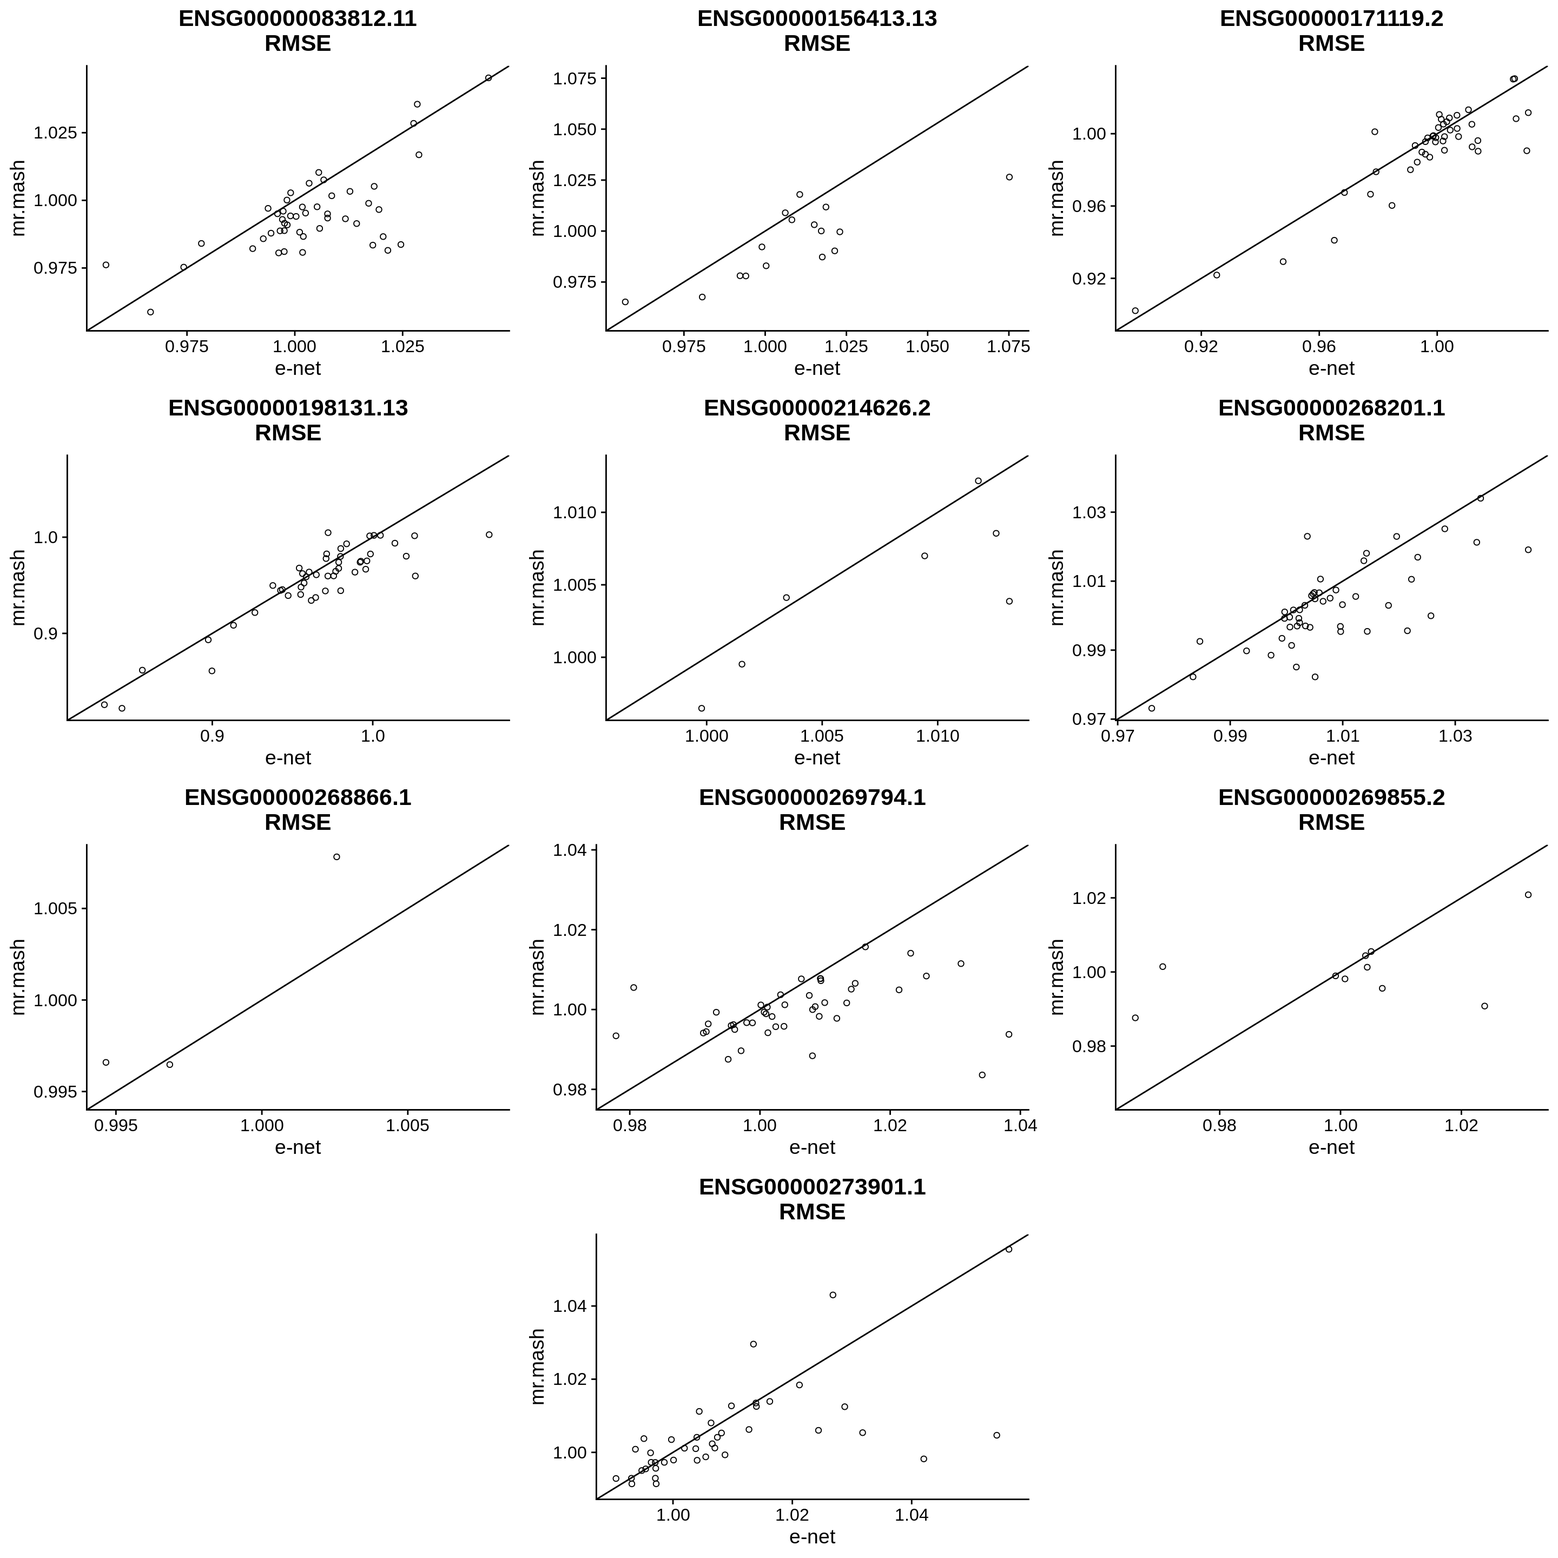
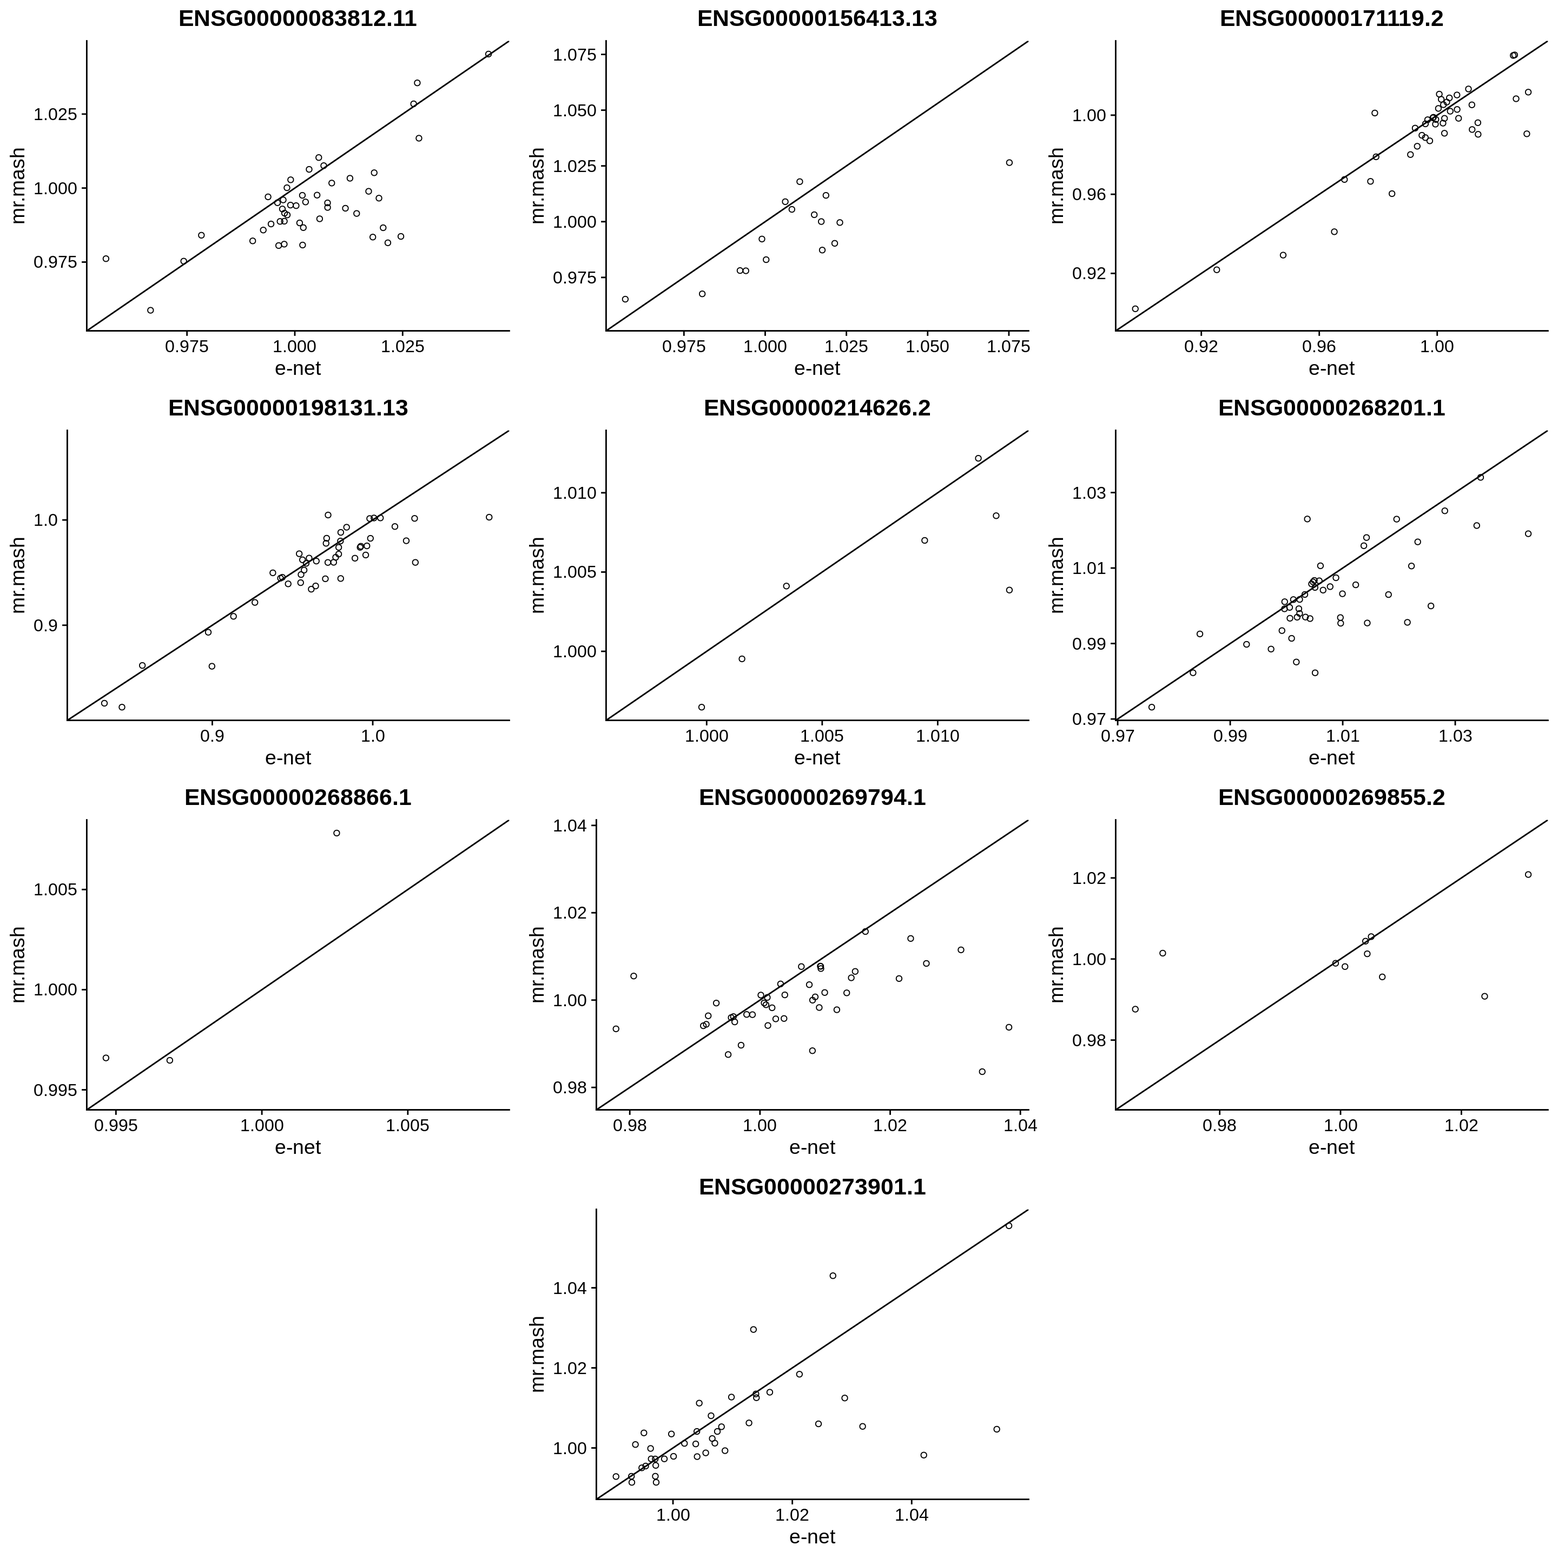
Build site.

diff --git a/docs/results_gtex_10genes.html b/docs/results_gtex_10genes.html
@@ -13,7 +13,7 @@
 
 <meta name="date" content="2021-11-12" />
 
-<title>mr.mash vs mtlasso vs UTMOST</title>
+<title>Analysis of 10 GTEx genes</title>
 
 <script src="site_libs/header-attrs-2.7/header-attrs.js"></script>
 <script src="site_libs/jquery-1.11.3/jquery.min.js"></script>
@@ -370,7 +370,7 @@ div.tocify {
 
 
 
-<h1 class="title toc-ignore">mr.mash vs mtlasso vs UTMOST</h1>
+<h1 class="title toc-ignore">Analysis of 10 GTEx genes</h1>
 <h4 class="author">Fabio Morgante</h4>
 <h4 class="date">November 12, 2021</h4>
 
@@ -488,16 +488,16 @@ This reproducible <a href="http://rmarkdown.rstudio.com">R Markdown</a> analysis
 <div class="panel panel-default">
 <div class="panel-heading">
 <p class="panel-title">
-<a data-toggle="collapse" data-parent="#workflowr-checks" href="#strongRepositoryversionstrongahrefhttpsgithubcomfmorgantemrmashtesttree164147e20ebdd9f707b57a6e9653e5eba04bfc26targetblank164147ea"> <span class="glyphicon glyphicon-ok text-success" aria-hidden="true"></span> <strong>Repository version:</strong> <a href="https://github.com/fmorgante/mr_mash_test/tree/164147e20ebdd9f707b57a6e9653e5eba04bfc26" target="_blank">164147e</a> </a>
+<a data-toggle="collapse" data-parent="#workflowr-checks" href="#strongRepositoryversionstrongahrefhttpsgithubcomfmorgantemrmashtesttree759c3a532d4e5562db92086e3c39810dbd32cd07targetblank759c3a5a"> <span class="glyphicon glyphicon-ok text-success" aria-hidden="true"></span> <strong>Repository version:</strong> <a href="https://github.com/fmorgante/mr_mash_test/tree/759c3a532d4e5562db92086e3c39810dbd32cd07" target="_blank">759c3a5</a> </a>
 </p>
 </div>
[2 lines of base64/hex data omitted]
 <div class="panel-body">
 <p>
 Great! You are using Git for version control. Tracking code development and connecting the code version to the results is critical for reproducibility.
 </p>
 <p>
-The results in this page were generated with repository version <a href="https://github.com/fmorgante/mr_mash_test/tree/164147e20ebdd9f707b57a6e9653e5eba04bfc26" target="_blank">164147e</a>. See the <em>Past versions</em> tab to see a history of the changes made to the R Markdown and HTML files.
+The results in this page were generated with repository version <a href="https://github.com/fmorgante/mr_mash_test/tree/759c3a532d4e5562db92086e3c39810dbd32cd07" target="_blank">759c3a5</a>. See the <em>Past versions</em> tab to see a history of the changes made to the R Markdown and HTML files.
 </p>
 <p>
 Note that you need to be careful to ensure that all relevant files for the analysis have been committed to Git prior to generating the results (you can use <code>wflow_publish</code> or <code>wflow_git_commit</code>). workflowr only checks the R Markdown file, but you know if there are other scripts or data files that it depends on. Below is the status of the Git repository when the results were generated:
@@ -2835,11 +2835,6 @@ Untracked files:
     Untracked:  code/predict_mrmash_by_fold_test_4threads.R
     Untracked:  code/predict_mrmash_by_fold_test_8threads.R
     Untracked:  dsc/mvreg_all_genes_prior_09_11_20_COPY.dsc
-    Untracked:  scripts/mrmash_second_pass_fold1_mtlasso_genes_gtex.sbatch
-    Untracked:  scripts/mrmash_second_pass_fold2_mtlasso_genes_gtex.sbatch
-    Untracked:  scripts/mrmash_second_pass_fold3_mtlasso_genes_gtex.sbatch
-    Untracked:  scripts/mrmash_second_pass_fold4_mtlasso_genes_gtex.sbatch
-    Untracked:  scripts/mrmash_second_pass_fold5_mtlasso_genes_gtex.sbatch
     Untracked:  scripts/run_predict_mrmash_by_fold_test.sbatch
     Untracked:  scripts/run_predict_mrmash_by_fold_test_2threads.sbatch
     Untracked:  scripts/run_predict_mrmash_by_fold_test_4threads.sbatch
@@ -2882,6 +2877,40 @@ Message
 </tr>
 </thead>
 <tbody>
+<tr>
+<td>
+Rmd
+</td>
+<td>
+<a href="https://github.com/fmorgante/mr_mash_test/blob/759c3a532d4e5562db92086e3c39810dbd32cd07/analysis/results_gtex_10genes.Rmd" target="_blank">759c3a5</a>
+</td>
+<td>
+Fabio Morgante
+</td>
+<td>
+2021-11-12
+</td>
+<td>
+Add description and fix a few things
+</td>
+</tr>
+<tr>
+<td>
+html
+</td>
+<td>
+<a href="https://rawcdn.githack.com/fmorgante/mr_mash_test/5240e1c79c87e9d233e7b53e690a879464e7cd45/docs/results_gtex_10genes.html" target="_blank">5240e1c</a>
+</td>
+<td>
+Fabio Morgante
+</td>
+<td>
+2021-11-12
+</td>
+<td>
+Build site.
+</td>
+</tr>
 <tr>
 <td>
 Rmd
@@ -2943,7 +2972,15 @@ genes &lt;- c(&quot;ENSG00000083812.11&quot;, &quot;ENSG00000156413.13&quot;, &q
 
 ###Set some parameters
 thresh &lt;- 100</code></pre>
-<p>In all the analyses so far, we have used <a href="https://users.rcc.uchicago.edu/~aksarkar/gtex-pred/lasso.html">Abhishek’s implementation of the sparse multi-task LASSO</a> (called mtlasso here), the method that was used in <a href="https://www.ncbi.nlm.nih.gov/pmc/articles/PMC6788740/">UTMOST</a>. This is because the <a href="https://github.com/yiminghu/CTIMP">original implementation</a> requires the data in an awkward format. Note that Abhishek’s implementation is not exactly the same as UTMOST. For example, the initialization of the coefficients and the way to choose the grid of values for the tuning parameters are different. Recently, the Ritchie Lab reimplemented the <a href="https://github.com/RitchieLab/multi_tissue_twas_sim">method</a> using the original code from the UTMOST autors so that it takes in data in the standard format (i.e., Y in matrix form). The caveat is that this reimplementation does not allow for missing values in Y. In this website, we want to compare <em>mr.mash</em> to both the Ritchie Lab’s implementation and Abhishek’s implementation of UTMOST.</p>
+<p>Here, we compare the prediction performance of <em>mr.mash</em>, <a href="https://github.com/aksarkar/mtlasso">Abhishek’s implementation of the sparse multi-task LASSO</a>, and the univariate elastic net. The analysis was performed on 10 randomly sampled GTEx v8 genes using the following pipelines:</p>
+<ul>
+<li><a href="https://github.com/cumc/bioworkflows/blob/master/multivariate-prediction/cv_preprocessing.ipynb">univariate summary statistics computation</a></li>
+<li><a href="https://github.com/cumc/bioworkflows/blob/master/multivariate-fine-mapping/mixture_prior.ipynb">data-driven covariance matrices computation</a></li>
+<li><a href="https://github.com/cumc/bioworkflows/blob/master/multivariate-prediction/prior_grid.ipynb">prior grid computation</a></li>
+<li><a href="https://github.com/cumc/bioworkflows/blob/master/multivariate-prediction/mrmash.ipynb"><em>mr.mash</em> model fitting</a></li>
+<li><a href="https://github.com/cumc/bioworkflows/blob/master/multivariate-prediction/mtlasso.ipynb">sparse multi-task LASSO model fitting</a></li>
+</ul>
+<p>Briefly, we used a 5-fold cross validation scheme, whereby all the steps but the computation of prediction performance were done on the training set. Only data-driven covariance matrices were used and computed using <em>flash</em> (unconstrained and non-negative factors only) and PCA, denoised using the TED method in the <a href="https://github.com/stephenslab/udr">udr R package</a>. A common grid of scaling factors for all the genes was computed from their univariate summary statistics. These two steps used all the GTEx genes expressed in all the 49 tissues. Regression coefficients and prior weights were initialized using the univariate elastic net. Prior weights were updated in a gene specific manner, as was the residual covariance V with no diagonal constrain. We also tested a “second pass” version of <em>mr.mash</em> where we combined the responsibilities from the “first pass” across genes and performed a joint weights update. The jointly updated weights were fixed for all the genes. Prediction performance was evaluated as the Root Mean Squared Error (RMSE) scaled by the variance of true expression in the test set. The plots below show the mean RMSE across folds for each tissue for pairs of methods.</p>
 <pre class="r"><code>p_mrmash_sec &lt;- vector(&quot;list&quot;, length(genes))
 p_enet &lt;- vector(&quot;list&quot;, length(genes))
 p_mtlasso &lt;- vector(&quot;list&quot;, length(genes))
@@ -3094,19 +3131,19 @@ for(gene in genes){
     min_lim &lt;- min(c(mean_scaled_rmse[, &quot;mrmash_first&quot;], mean_scaled_rmse[, &quot;mrmash_sec&quot;]))
     max_lim &lt;- max(c(mean_scaled_rmse[, &quot;mrmash_first&quot;], mean_scaled_rmse[, &quot;mrmash_sec&quot;]))
     p_mrmash_sec[[t]] &lt;- ggplot(as.data.frame(mean_scaled_rmse), aes(x=mrmash_sec, y=mrmash_first)) + geom_point(shape=1) + xlim(min_lim, max_lim) + ylim(min_lim, max_lim) +
-                                labs(x = &quot;mr.mash (second)&quot;, y = &quot;mr.mash (first)&quot;, title=paste0(gene, &quot;\nRMSE&quot;)) + geom_abline(intercept = 0, slope = 1) + theme_cowplot() +
+                                labs(x = &quot;mr.mash (second)&quot;, y = &quot;mr.mash (first)&quot;, title=gene) + geom_abline(intercept = 0, slope = 1) + theme_cowplot() +
                                 theme(plot.title = element_text(hjust = 0.5))    
 
     min_lim &lt;- min(c(mean_scaled_rmse[, &quot;mrmash_first&quot;], mean_scaled_rmse[, &quot;enet&quot;]))
     max_lim &lt;- max(c(mean_scaled_rmse[, &quot;mrmash_first&quot;], mean_scaled_rmse[, &quot;enet&quot;]))
     p_enet[[t]] &lt;- ggplot(as.data.frame(mean_scaled_rmse), aes(x=enet, y=mrmash_first)) + geom_point(shape=1) + xlim(min_lim, max_lim) + ylim(min_lim, max_lim) +
-                    labs(x = &quot;e-net&quot;, y = &quot;mr.mash&quot;, title=paste0(gene, &quot;\nRMSE&quot;)) + geom_abline(intercept = 0, slope = 1) + theme_cowplot() +
+                    labs(x = &quot;e-net&quot;, y = &quot;mr.mash&quot;, title=gene) + geom_abline(intercept = 0, slope = 1) + theme_cowplot() +
                     theme(plot.title = element_text(hjust = 0.5))    
 
     min_lim &lt;- min(c(mean_scaled_rmse[, &quot;mrmash_first&quot;], mean_scaled_rmse[, &quot;mtlasso&quot;]))
     max_lim &lt;- max(c(mean_scaled_rmse[, &quot;mrmash_first&quot;], mean_scaled_rmse[, &quot;mtlasso&quot;]))
     p_mtlasso[[t]] &lt;- ggplot(as.data.frame(mean_scaled_rmse), aes(x=mtlasso, y=mrmash_first)) + geom_point(shape=1) + xlim(min_lim, max_lim) + ylim(min_lim, max_lim) +
-                        labs(x = &quot;smt-lasso&quot;, y = &quot;mr.mash&quot;, title=paste0(gene, &quot;\nRMSE&quot;)) + geom_abline(intercept = 0, slope = 1) + theme_cowplot() +
+                        labs(x = &quot;smt-lasso&quot;, y = &quot;mr.mash&quot;, title=gene) + geom_abline(intercept = 0, slope = 1) + theme_cowplot() +
                         theme(plot.title = element_text(hjust = 0.5))    
 }</code></pre>
 <div id="mr.mash-first-pass-vs-second-pass" class="section level3">
@@ -3116,6 +3153,44 @@ for(gene in genes){
           p_mrmash_sec[[10]], NULL,
           ncol = 3)</code></pre>
 <p><img src="figure/results_gtex_10genes.Rmd/mr.mash%20first%20vs%20second%20pass-1.png" width="1440" style="display: block; margin: auto;" /></p>
+<p>
+<button type="button" class="btn btn-default btn-xs btn-workflowr btn-workflowr-fig" data-toggle="collapse" data-target="#fig-no-spaces-mr.mash-first-vs-second-pass-1">
+Past versions of "mr.mash first vs second pass-1.png"
+</button>
+</p>
+<div id="fig-no-spaces-mr.mash-first-vs-second-pass-1" class="collapse">
+<div class="table-responsive">
+<table class="table table-condensed table-hover">
+<thead>
+<tr>
+<th>
+Version
+</th>
+<th>
+Author
+</th>
+<th>
+Date
+</th>
+</tr>
+</thead>
+<tbody>
+<tr>
+<td>
+<a href="https://github.com/fmorgante/mr_mash_test/blob/5240e1c79c87e9d233e7b53e690a879464e7cd45/docs/figure/results_gtex_10genes.Rmd/mr.mash first vs second pass-1.png" target="_blank">5240e1c</a>
+</td>
+<td>
+Fabio Morgante
+</td>
+<td>
+2021-11-12
+</td>
+</tr>
+</tbody>
+</table>
+</div>
+</div>
+<p>The results comparing the two versions of <em>mr.mash</em> show that the second pass does not improve the performance. Since it is also computationally demanding to perform the second pass, there is no reason to do it.</p>
 </div>
 <div id="mr.mash-first-pass-vs-elastic-net" class="section level3">
 <h3><em>mr.mash</em> first pass vs elastic net</h3>
@@ -3124,6 +3199,44 @@ for(gene in genes){
           p_enet[[10]], NULL,
           ncol = 3)</code></pre>
 <p><img src="figure/results_gtex_10genes.Rmd/mr.mash%20first%20vs%20enet-1.png" width="1440" style="display: block; margin: auto;" /></p>
+<p>
+<button type="button" class="btn btn-default btn-xs btn-workflowr btn-workflowr-fig" data-toggle="collapse" data-target="#fig-no-spaces-mr.mash-first-vs-enet-1">
+Past versions of "mr.mash first vs enet-1.png"
+</button>
+</p>
+<div id="fig-no-spaces-mr.mash-first-vs-enet-1" class="collapse">
+<div class="table-responsive">
+<table class="table table-condensed table-hover">
+<thead>
+<tr>
+<th>
+Version
+</th>
+<th>
+Author
+</th>
+<th>
+Date
+</th>
+</tr>
+</thead>
+<tbody>
+<tr>
+<td>
+<a href="https://github.com/fmorgante/mr_mash_test/blob/5240e1c79c87e9d233e7b53e690a879464e7cd45/docs/figure/results_gtex_10genes.Rmd/mr.mash first vs enet-1.png" target="_blank">5240e1c</a>
+</td>
+<td>
+Fabio Morgante
+</td>
+<td>
+2021-11-12
+</td>
+</tr>
+</tbody>
+</table>
+</div>
+</div>
+<p>The results comparing <em>mr.mash</em> and univariate elastic net show that, as expected, <em>mr.mash</em> achieves a lower RMSE for the majority of tissue/gene combinations. And even in the cases where the elastic net achieves a lower RMSE, <em>mr.mash</em>’s performance is very close.</p>
 </div>
 <div id="mr.mash-first-pass-vs-sparse-multi-task-lasso" class="section level3">
 <h3><em>mr.mash</em> first pass vs sparse multi-task LASSO</h3>
@@ -3132,6 +3245,45 @@ for(gene in genes){
           p_mtlasso[[10]], NULL,
           ncol = 3)</code></pre>
 <p><img src="figure/results_gtex_10genes.Rmd/mr.mash%20first%20vs%20mtlasso-1.png" width="1440" style="display: block; margin: auto;" /></p>
+<p>
+<button type="button" class="btn btn-default btn-xs btn-workflowr btn-workflowr-fig" data-toggle="collapse" data-target="#fig-no-spaces-mr.mash-first-vs-mtlasso-1">
+Past versions of "mr.mash first vs mtlasso-1.png"
+</button>
+</p>
+<div id="fig-no-spaces-mr.mash-first-vs-mtlasso-1" class="collapse">
+<div class="table-responsive">
+<table class="table table-condensed table-hover">
+<thead>
+<tr>
+<th>
+Version
+</th>
+<th>
+Author
+</th>
+<th>
+Date
+</th>
+</tr>
+</thead>
+<tbody>
+<tr>
+<td>
+<a href="https://github.com/fmorgante/mr_mash_test/blob/5240e1c79c87e9d233e7b53e690a879464e7cd45/docs/figure/results_gtex_10genes.Rmd/mr.mash first vs mtlasso-1.png" target="_blank">5240e1c</a>
+</td>
+<td>
+Fabio Morgante
+</td>
+<td>
+2021-11-12
+</td>
+</tr>
+</tbody>
+</table>
+</div>
+</div>
+<p>The results comparing <em>mr.mash</em> and sparse multi-task LASSO show that <em>mr.mash</em> performs better for five out of ten genes, and about the same in the remaining genes.</p>
+<p>Overall, <em>mr.mash</em> seems to work well.</p>
 <br>
 <p>
 <button type="button" class="btn btn-default btn-workflowr btn-workflowr-sessioninfo" data-toggle="collapse" data-target="#workflowr-sessioninfo" style="display: block;">

diff --git a/docs/index.html b/docs/index.html
@@ -348,16 +348,16 @@ This reproducible <a href="http://rmarkdown.rstudio.com">R Markdown</a> analysis
 <div class="panel panel-default">
 <div class="panel-heading">
 <p class="panel-title">
-<a data-toggle="collapse" data-parent="#workflowr-checks" href="#strongRepositoryversionstrongahrefhttpsgithubcomfmorgantemrmashtesttree164147e20ebdd9f707b57a6e9653e5eba04bfc26targetblank164147ea"> <span class="glyphicon glyphicon-ok text-success" aria-hidden="true"></span> <strong>Repository version:</strong> <a href="https://github.com/fmorgante/mr_mash_test/tree/164147e20ebdd9f707b57a6e9653e5eba04bfc26" target="_blank">164147e</a> </a>
+<a data-toggle="collapse" data-parent="#workflowr-checks" href="#strongRepositoryversionstrongahrefhttpsgithubcomfmorgantemrmashtesttree759c3a532d4e5562db92086e3c39810dbd32cd07targetblank759c3a5a"> <span class="glyphicon glyphicon-ok text-success" aria-hidden="true"></span> <strong>Repository version:</strong> <a href="https://github.com/fmorgante/mr_mash_test/tree/759c3a532d4e5562db92086e3c39810dbd32cd07" target="_blank">759c3a5</a> </a>
 </p>
 </div>
[2 lines of base64/hex data omitted]
 <div class="panel-body">
 <p>
 Great! You are using Git for version control. Tracking code development and connecting the code version to the results is critical for reproducibility.
 </p>
 <p>
-The results in this page were generated with repository version <a href="https://github.com/fmorgante/mr_mash_test/tree/164147e20ebdd9f707b57a6e9653e5eba04bfc26" target="_blank">164147e</a>. See the <em>Past versions</em> tab to see a history of the changes made to the R Markdown and HTML files.
+The results in this page were generated with repository version <a href="https://github.com/fmorgante/mr_mash_test/tree/759c3a532d4e5562db92086e3c39810dbd32cd07" target="_blank">759c3a5</a>. See the <em>Past versions</em> tab to see a history of the changes made to the R Markdown and HTML files.
 </p>
 <p>
 Note that you need to be careful to ensure that all relevant files for the analysis have been committed to Git prior to generating the results (you can use <code>wflow_publish</code> or <code>wflow_git_commit</code>). workflowr only checks the R Markdown file, but you know if there are other scripts or data files that it depends on. Below is the status of the Git repository when the results were generated:
@@ -2695,11 +2695,6 @@ Untracked files:
     Untracked:  code/predict_mrmash_by_fold_test_4threads.R
     Untracked:  code/predict_mrmash_by_fold_test_8threads.R
     Untracked:  dsc/mvreg_all_genes_prior_09_11_20_COPY.dsc
-    Untracked:  scripts/mrmash_second_pass_fold1_mtlasso_genes_gtex.sbatch
-    Untracked:  scripts/mrmash_second_pass_fold2_mtlasso_genes_gtex.sbatch
-    Untracked:  scripts/mrmash_second_pass_fold3_mtlasso_genes_gtex.sbatch
-    Untracked:  scripts/mrmash_second_pass_fold4_mtlasso_genes_gtex.sbatch
-    Untracked:  scripts/mrmash_second_pass_fold5_mtlasso_genes_gtex.sbatch
     Untracked:  scripts/run_predict_mrmash_by_fold_test.sbatch
     Untracked:  scripts/run_predict_mrmash_by_fold_test_2threads.sbatch
     Untracked:  scripts/run_predict_mrmash_by_fold_test_4threads.sbatch
@@ -2742,6 +2737,40 @@ Message
 </tr>
 </thead>
 <tbody>
+<tr>
+<td>
+Rmd
+</td>
+<td>
+<a href="https://github.com/fmorgante/mr_mash_test/blob/759c3a532d4e5562db92086e3c39810dbd32cd07/analysis/index.Rmd" target="_blank">759c3a5</a>
+</td>
+<td>
+Fabio Morgante
+</td>
+<td>
+2021-11-12
+</td>
+<td>
+Add description and fix a few things
+</td>
+</tr>
+<tr>
+<td>
+html
+</td>
+<td>
+<a href="https://rawcdn.githack.com/fmorgante/mr_mash_test/5240e1c79c87e9d233e7b53e690a879464e7cd45/docs/index.html" target="_blank">5240e1c</a>
+</td>
+<td>
+Fabio Morgante
+</td>
+<td>
+2021-11-12
+</td>
+<td>
+Build site.
+</td>
+</tr>
 <tr>
 <td>
 Rmd
@@ -5021,7 +5050,10 @@ Start workflowr project.
 <li><a href="results_mvreg_all_genes_prior_GTExrealX_indepV_indepB_r10_indepReps_missing_Y.html">Indpendent effects, independent residuals.</a></li>
 <li><a href="results_mvreg_all_genes_prior_GTExrealX_indepReps_missing_Y_summary.html">Table summarizing results above.</a></li>
 </ul>
-<p>Results of GTEx v8 data analysis: + <a href="results_gtex_10genes.html">10 randomly sampled genes</a></p>
+<p>Results of GTEx v8 data analysis:</p>
+<ul>
+<li><a href="results_gtex_10genes.html">10 randomly sampled genes</a></li>
+</ul>
 <p>Other investigations:</p>
 <ul>
 <li><a href="dense_scenario_issue.html">Case study with dense scenarios.</a></li>
